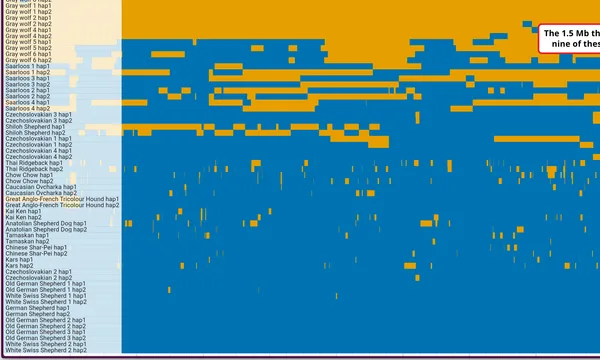
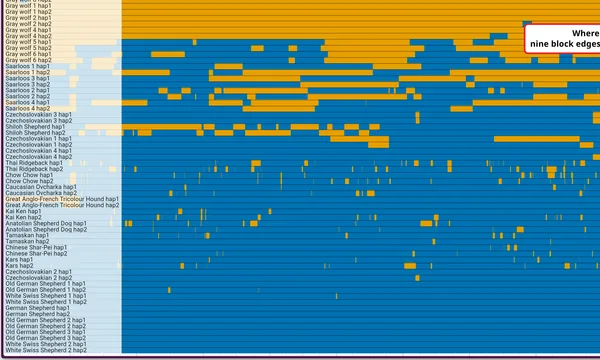
feat(multirow): let a track hide its row labels
The labels are an overlay on the plot rather than a gutter beside it, and each
one is as wide as its own text, so on a whole-chromosome view of a track with
long row names the left megabases of every row sit underneath them. A block that
starts at the beginning of the chromosome then reads as absent rather than as
covered, which is a figure stating the opposite of the data. Hit while painting
local ancestry across two hound breeds: two of the ten dogs carry their block
inside the covered span and the labelled view showed them clean.

Adds a `showRowLabels` config slot, its getter/action, and a "Show row labels"
checkbox beside the existing sidebar and separator toggles. The SVG export goes
through `SvgTreeSidebar`, which already took a `showLabels` prop, so that path
just passes the flag.

`RowLabelsOverlay` keeps rendering its `<svg>` when labels are off and drops
only the contents. That element is the doneness signal several displays gate
screenshot capture on -- it exists only once rows are derived from fetched data,
unlike canvasDrawn, which flips on an empty first paint -- so guarding the
element itself would have made hiding labels also disarm the gate and capture
blank figures.

Verified in a rebuilt jbrowse-web, not only in unit tests: the slot set from a
session spec hides the labels and reveals the chromosome start behind them.

Claude-Session: https://claude.ai/code/session_01NAiW6UoFGjYvDBYXHqRMYJ

diff --git a/website/src/lib/galleryLinks.generated.ts b/website/src/lib/galleryLinks.generated.ts
@@ -231,7 +231,7 @@ export const specSessionUrls: Record<string, string> = {
   "dog10k-fgf4-retrogene-synteny": "?config=test_data/dog10k/config.json&session=spec-%7B%22views%22%3A%5B%7B%22type%22%3A%22LinearSyntenyView%22%2C%22drawCurves%22%3Afalse%2C%22cigarMode%22%3A%22matches%22%2C%22alpha%22%3A0.45%2C%22tracks%22%3A%5B%5B%22dog10k_fgf4_retro_cfa18%22%5D%2C%5B%22dog10k_fgf4_retro_cfa12%22%5D%5D%2C%22views%22%3A%5B%7B%22assembly%22%3A%22FGF4retro-CFA18%22%2C%22loc%22%3A%22FGF4retro-CFA18%3A1-2625%22%2C%22tracks%22%3A%5B%7B%22trackId%22%3A%22dog10k_fgf4_retro_cfa18_genes%22%2C%22type%22%3A%22LinearBasicDisplay%22%2C%22height%22%3A55%7D%5D%7D%2C%7B%22assembly%22%3A%22UU_Cfam_GSD_1.0%22%2C%22loc%22%3A%22chr18%3A48%2C869%2C100-48%2C872%2C900%22%2C%22tracks%22%3A%5B%7B%22trackId%22%3A%22canFam4_ncbi_refseq%22%2C%22type%22%3A%22LinearBasicDisplay%22%2C%22height%22%3A60%7D%2C%7B%22trackId%22%3A%22dog10k_fgf4_svs%22%2C%22type%22%3A%22LinearMultiSampleVariantDisplay%22%2C%22height%22%3A690%2C%22colorBy%22%3A%22group%22%7D%5D%7D%2C%7B%22assembly%22%3A%22FGF4retro-CFA12%22%2C%22loc%22%3A%22FGF4retro-CFA12%3A2-2639%22%2C%22tracks%22%3A%5B%7B%22trackId%22%3A%22dog10k_fgf4_retro_cfa12_genes%22%2C%22type%22%3A%22LinearBasicDisplay%22%2C%22height%22%3A55%7D%5D%7D%5D%7D%5D%7D&sessionName=Screenshot",
   "dog10k-cyp1a2-nonsense": "?config=test_data/dog10k/config.json&session=spec-%7B%22views%22%3A%5B%7B%22type%22%3A%22LinearGenomeView%22%2C%22assembly%22%3A%22UU_Cfam_GSD_1.0%22%2C%22loc%22%3A%22chr30%3A38%2C261%2C590-38%2C261%2C690%22%2C%22tracks%22%3A%5B%7B%22trackId%22%3A%22UU_Cfam_GSD_1.0-ReferenceSequenceTrack%22%2C%22type%22%3A%22LinearReferenceSequenceDisplay%22%2C%22showForward%22%3Atrue%2C%22showReverse%22%3Afalse%2C%22showTranslation%22%3Atrue%2C%22height%22%3A80%7D%2C%7B%22trackId%22%3A%22canFam4_ncbi_refseq%22%2C%22type%22%3A%22LinearBasicDisplay%22%2C%22height%22%3A60%7D%2C%7B%22trackId%22%3A%22dog10k_cyp1a2_snvs_positional%22%2C%22type%22%3A%22LinearVariantDisplay%22%2C%22height%22%3A60%2C%22jexlFilters%22%3A%5B%22get(feature%2C'start')%20%3D%3D%2038261634%22%5D%7D%2C%7B%22trackId%22%3A%22dog10k_cyp1a2_snvs%22%2C%22type%22%3A%22LinearMultiSampleVariantDisplay%22%2C%22height%22%3A500%2C%22layout%22%3A%5B%7B%22name%22%3A%22GHND000001%22%2C%22label%22%3A%22German%20Hound%201%22%2C%22color%22%3A%22%230072B2%22%7D%2C%7B%22name%22%3A%22GHND000002%22%2C%22label%22%3A%22German%20Hound%202%22%2C%22color%22%3A%22%230072B2%22%7D%2C%7B%22name%22%3A%22GHND000003%22%2C%22label%22%3A%22German%20Hound%203%22%2C%22color%22%3A%22%230072B2%22%7D%2C%7B%22name%22%3A%22GHND000004%22%2C%22label%22%3A%22German%20Hound%204%22%2C%22color%22%3A%22%230072B2%22%7D%2C%7B%22name%22%3A%22GHND000005%22%2C%22label%22%3A%22German%20Hound%205%22%2C%22color%22%3A%22%230072B2%22%7D%2C%7B%22name%22%3A%22GHND000006%22%2C%22label%22%3A%22German%20Hound%206%22%2C%22color%22%3A%22%230072B2%22%7D%2C%7B%22name%22%3A%22BHSP000001%22%2C%22label%22%3A%22Bohemian%20Shepherd%201%22%2C%22color%22%3A%22%230072B2%22%7D%2C%7B%22name%22%3A%22BHSP000002%22%2C%22label%22%3A%22Bohemian%20Shepherd%202%22%2C%22color%22%3A%22%230072B2%22%7D%2C%7B%22name%22%3A%22BHSP000003%22%2C%22label%22%3A%22Bohemian%20Shepherd%203%22%2C%22color%22%3A%22%230072B2%22%7D%2C%7B%22name%22%3A%22BHSP000004%22%2C%22label%22%3A%22Bohemian%20Shepherd%204%22%2C%22color%22%3A%22%230072B2%22%7D%2C%7B%22name%22%3A%22BHSP000005%22%2C%22label%22%3A%22Bohemian%20Shepherd%205%22%2C%22color%22%3A%22%230072B2%22%7D%2C%7B%22name%22%3A%22BHSP000006%22%2C%22label%22%3A%22Bohemian%20Shepherd%206%22%2C%22color%22%3A%22%230072B2%22%7D%2C%7B%22name%22%3A%22SSHP000001%22%2C%22label%22%3A%22Shetland%20Sheepdog%201%22%2C%22color%22%3A%22%230072B2%22%7D%2C%7B%22name%22%3A%22SSHP000002%22%2C%22label%22%3A%22Shetland%20Sheepdog%202%22%2C%22color%22%3A%22%230072B2%22%7D%2C%7B%22name%22%3A%22SSHP000003%22%2C%22label%22%3A%22Shetland%20Sheepdog%203%22%2C%22color%22%3A%22%230072B2%22%7D%2C%7B%22name%22%3A%22SSHP000004%22%2C%22label%22%3A%22Shetland%20Sheepdog%204%22%2C%22color%22%3A%22%230072B2%22%7D%2C%7B%22name%22%3A%22BRTR000001%22%2C%22label%22%3A%22Black%20Russian%20Terrier%201%22%2C%22color%22%3A%22%230072B2%22%7D%2C%7B%22name%22%3A%22BRTR000002%22%2C%22label%22%3A%22Black%20Russian%20Terrier%202%22%2C%22color%22%3A%22%230072B2%22%7D%2C%7B%22name%22%3A%22BRTR000003%22%2C%22label%22%3A%22Black%20Russian%20Terrier%203%22%2C%22color%22%3A%22%230072B2%22%7D%2C%7B%22name%22%3A%22BRTR000004%22%2C%22label%22%3A%22Black%20Russian%20Terrier%204%22%2C%22color%22%3A%22%230072B2%22%7D%2C%7B%22name%22%3A%22BRTR000005%22%2C%22label%22%3A%22Black%20Russian%20Terrier%205%22%2C%22color%22%3A%22%230072B2%22%7D%2C%7B%22name%22%3A%22KEES000002%22%2C%22label%22%3A%22Keeshond%201%22%2C%22color%22%3A%22%230072B2%22%7D%2C%7B%22name%22%3A%22KEES000003%22%2C%22label%22%3A%22Keeshond%202%22%2C%22color%22%3A%22%230072B2%22%7D%2C%7B%22name%22%3A%22KEES000004%22%2C%22label%22%3A%22Keeshond%203%22%2C%22color%22%3A%22%230072B2%22%7D%2C%7B%22name%22%3A%22KEES000005%22%2C%22label%22%3A%22Keeshond%204%22%2C%22color%22%3A%22%230072B2%22%7D%2C%7B%22name%22%3A%22KEES000006%22%2C%22label%22%3A%22Keeshond%205%22%2C%22color%22%3A%22%230072B2%22%7D%2C%7B%22name%22%3A%22LABR000001%22%2C%22label%22%3A%22Labrador%20Retriever%201%22%2C%22color%22%3A%22%23999999%22%7D%2C%7B%22name%22%3A%22LABR000002%22%2C%22label%22%3A%22Labrador%20Retriever%202%22%2C%22color%22%3A%22%23999999%22%7D%2C%7B%22name%22%3A%22LABR000003%22%2C%22label%22%3A%22Labrador%20Retriever%203%22%2C%22color%22%3A%22%23999999%22%7D%2C%7B%22name%22%3A%22LABR000004%22%2C%22label%22%3A%22Labrador%20Retriever%204%22%2C%22color%22%3A%22%23999999%22%7D%2C%7B%22name%22%3A%22LABR000005%22%2C%22label%22%3A%22Labrador%20Retriever%205%22%2C%22color%22%3A%22%23999999%22%7D%2C%7B%22name%22%3A%22BOXR000001%22%2C%22label%22%3A%22Boxer%201%22%2C%22color%22%3A%22%23999999%22%7D%2C%7B%22name%22%3A%22BOXR000002%22%2C%22label%22%3A%22Boxer%202%22%2C%22color%22%3A%22%23999999%22%7D%2C%7B%22name%22%3A%22BOXR000003%22%2C%22label%22%3A%22Boxer%203%22%2C%22color%22%3A%22%23999999%22%7D%2C%7B%22name%22%3A%22BOXR000004%22%2C%22label%22%3A%22Boxer%204%22%2C%22color%22%3A%22%23999999%22%7D%2C%7B%22name%22%3A%22CLUPGR000001%22%2C%22label%22%3A%22Wolf%201%22%2C%22color%22%3A%22%23E69F00%22%7D%2C%7B%22name%22%3A%22CLUPGR000002%22%2C%22label%22%3A%22Wolf%202%22%2C%22color%22%3A%22%23E69F00%22%7D%2C%7B%22name%22%3A%22CLUPGR000003%22%2C%22label%22%3A%22Wolf%203%22%2C%22color%22%3A%22%23E69F00%22%7D%2C%7B%22name%22%3A%22CLUPGR000004%22%2C%22label%22%3A%22Wolf%204%22%2C%22color%22%3A%22%23E69F00%22%7D%5D%2C%22jexlFilters%22%3A%5B%22jexl%3Aget(feature%2C'start')%20%3D%3D%2038261634%22%5D%7D%5D%7D%5D%7D&sessionName=Screenshot",
   "dog10k-cyp1a2-cohort-copy-number": "?config=test_data/dog10k/config.json&session=spec-%7B%22views%22%3A%5B%7B%22type%22%3A%22LinearGenomeView%22%2C%22assembly%22%3A%22UU_Cfam_GSD_1.0%22%2C%22loc%22%3A%22chr30%3A38%2C210%2C000-38%2C395%2C000%22%2C%22tracks%22%3A%5B%7B%22trackId%22%3A%22canFam4_ncbi_refseq%22%2C%22type%22%3A%22LinearBasicDisplay%22%2C%22height%22%3A90%7D%2C%7B%22trackId%22%3A%22dog10k_cyp1a2_cpg%22%2C%22type%22%3A%22LinearBasicDisplay%22%2C%22height%22%3A62%7D%2C%7B%22trackId%22%3A%22dog10k_cyp1a2_breed_cn%22%2C%22type%22%3A%22LinearMultiRowFeatureDisplay%22%2C%22height%22%3A380%7D%2C%7B%22trackId%22%3A%22dog10k_cyp1a2_cohort_cn%22%2C%22type%22%3A%22LinearMultiRowFeatureDisplay%22%2C%22height%22%3A300%2C%22runClustering%22%3Atrue%7D%5D%7D%5D%7D&sessionName=Screenshot",
-  "dog10k-igf1-haplotype": "?config=test_data/dog10k/config.json&session=spec-%7B%22views%22%3A%5B%7B%22type%22%3A%22LinearGenomeView%22%2C%22assembly%22%3A%22UU_Cfam_GSD_1.0%22%2C%22loc%22%3A%22chr15%3A41%2C400%2C000-41%2C620%2C000%22%2C%22tracks%22%3A%5B%7B%22trackId%22%3A%22canFam4_ncbi_refseq%22%2C%22type%22%3A%22LinearBasicDisplay%22%2C%22height%22%3A80%7D%2C%7B%22trackId%22%3A%22dog10k_igf1_haplotype%22%2C%22type%22%3A%22LinearMultiSampleVariantMatrixDisplay%22%2C%22height%22%3A760%2C%22lineZoneHeight%22%3A34%2C%22runClustering%22%3Atrue%2C%22colorBy%22%3A%22size%22%7D%5D%7D%5D%7D&sessionName=Screenshot",
+  "dog10k-igf1-haplotype": "?config=test_data/dog10k/config.json&session=spec-%7B%22views%22%3A%5B%7B%22type%22%3A%22LinearGenomeView%22%2C%22assembly%22%3A%22UU_Cfam_GSD_1.0%22%2C%22loc%22%3A%22chr15%3A41%2C400%2C000-41%2C620%2C000%22%2C%22tracks%22%3A%5B%7B%22trackId%22%3A%22canFam4_ncbi_refseq%22%2C%22type%22%3A%22LinearBasicDisplay%22%2C%22geneGlyphMode%22%3A%22longestCoding%22%2C%22height%22%3A80%7D%2C%7B%22trackId%22%3A%22dog10k_igf1_haplotype%22%2C%22type%22%3A%22LinearMultiSampleVariantMatrixDisplay%22%2C%22height%22%3A760%2C%22lineZoneHeight%22%3A34%2C%22runClustering%22%3Atrue%2C%22colorBy%22%3A%22size%22%7D%5D%7D%5D%7D&sessionName=Screenshot",
   "gallery/copynumber_clustered": "?config=test_data/config_demo.json&session=spec-%7B%22views%22%3A%5B%7B%22type%22%3A%22LinearGenomeView%22%2C%22assembly%22%3A%22hg38%22%2C%22loc%22%3A%22chr3%3A162%2C275%2C163-163%2C360%2C944%22%2C%22tracks%22%3A%5B%7B%22trackId%22%3A%22pur_copynumber_1000g%22%2C%22type%22%3A%22MultiLinearWiggleDisplay%22%2C%22height%22%3A420%2C%22defaultRendering%22%3A%22multirowdensity%22%2C%22autoscale%22%3A%22local%22%2C%22showTree%22%3Afalse%7D%5D%7D%5D%7D&sessionName=Screenshot",
   "gallery/sarscov2_polyprotein": "?config=test_data%2Fsars-cov2%2Fconfig.json&session=spec-{\"views\":[{\"assembly\":\"Wuhan-Hu-1\",\"loc\":\"NC_045512.2:266-21555\",\"type\":\"LinearGenomeView\",\"colorByCDS\":true,\"tracks\":[{\"trackId\":\"ncbi_genes_with_mature_peptides\",\"displaySnapshot\":{\"type\":\"LinearBasicDisplay\",\"subfeatureLabels\":\"below\"}}]}]}",
   "gallery/fiberseq_gapdh": "?config=test_data/config_demo.json&session=spec-%7B%22sessionTracks%22%3A%5B%7B%22type%22%3A%22FeatureTrack%22%2C%22trackId%22%3A%22gencode_promoter_hg38_ucsc%22%2C%22name%22%3A%22GENCODE%20v48%20promoter%20windows%20(UCSC)%22%2C%22assemblyNames%22%3A%5B%22hg38%22%5D%2C%22adapter%22%3A%7B%22type%22%3A%22Gff3TabixAdapter%22%2C%22gffGzLocation%22%3A%7B%22uri%22%3A%22https%3A%2F%2Fjbrowse.org%2Fucsc%2Fhg38%2Fgencode.v48.promoter_windows.sorted.gff3.gz%22%2C%22locationType%22%3A%22UriLocation%22%7D%2C%22index%22%3A%7B%22location%22%3A%7B%22uri%22%3A%22https%3A%2F%2Fjbrowse.org%2Fucsc%2Fhg38%2Fgencode.v48.promoter_windows.sorted.gff3.gz.csi%22%2C%22locationType%22%3A%22UriLocation%22%7D%2C%22indexType%22%3A%22CSI%22%7D%7D%7D%5D%2C%22views%22%3A%5B%7B%22assembly%22%3A%22hg38%22%2C%22loc%22%3A%2212%3A6530000-6539000%22%2C%22type%22%3A%22LinearGenomeView%22%2C%22tracks%22%3A%5B%7B%22trackId%22%3A%22ncbi_refseq_109_hg38_latest%22%2C%22type%22%3A%22LinearBasicDisplay%22%2C%22geneGlyphMode%22%3A%22longestCoding%22%7D%2C%7B%22trackId%22%3A%22gencode_promoter_hg38_ucsc%22%2C%22type%22%3A%22LinearBasicDisplay%22%2C%22height%22%3A50%7D%2C%7B%22trackId%22%3A%22catlas_scatac_celltypes_hg38%22%2C%22type%22%3A%22MultiLinearWiggleDisplay%22%2C%22height%22%3A150%7D%2C%7B%22trackId%22%3A%22PAY22766-nanopore%22%2C%22type%22%3A%22LinearAlignmentsDisplay%22%2C%22height%22%3A450%2C%22colorBy%22%3A%7B%22type%22%3A%22modifications%22%2C%22modifications%22%3A%7B%22shownModifications%22%3A%5B%22a%22%5D%7D%7D%2C%22displayMode%22%3A%22compact%22%2C%22showLegend%22%3Atrue%7D%5D%7D%5D%7D&sessionName=Screenshot",

diff --git a/packages/tree-sidebar/src/RowLabelsOverlay.tsx b/packages/tree-sidebar/src/RowLabelsOverlay.tsx
@@ -21,6 +21,13 @@ import type { RowLabelSource } from './types.ts'
  * Renders nothing when there are no rows, so callers don't have to guard: a
  * label overlay with nothing in it is a `<svg>` swallowing nothing, but it is
  * also a DOM node that test selectors and screenshot doneness gates can see.
+ *
+ * `showLabels: false` keeps that `<svg>` and drops only the labels inside it,
+ * for the same reason: this element is the doneness signal several displays gate
+ * their capture on (it exists only once rows are derived from fetched data,
+ * unlike `canvasDrawn`, which flips on an empty first paint). Guarding the
+ * element itself instead would make turning labels off also turn off the gate,
+ * and the figure would capture blank.
  */
 export function RowLabelsOverlay({
   sources,
@@ -30,6 +37,7 @@ export function RowLabelsOverlay({
   height,
   scrollTop,
   testId,
+  showLabels = true,
 }: {
   sources: RowLabelSource[] | undefined
   // Resolved px row height, never a fit-to-height sentinel — same contract as
@@ -42,6 +50,8 @@ export function RowLabelsOverlay({
   height: number
   scrollTop?: number
   testId?: string
+  // Draw the names. False still renders the overlay element, see above.
+  showLabels?: boolean
 }) {
   return sources?.length ? (
     <svg
@@ -56,13 +66,15 @@ export function RowLabelsOverlay({
         zIndex: 2,
       }}
     >
-      <SvgRowLabels
-        sources={sources}
-        rowHeight={rowHeight}
-        labelOffset={labelOffset}
-        scrollTop={scrollTop}
-        availableHeight={height}
-      />
+      {showLabels ? (
+        <SvgRowLabels
+          sources={sources}
+          rowHeight={rowHeight}
+          labelOffset={labelOffset}
+          scrollTop={scrollTop}
+          availableHeight={height}
+        />
+      ) : null}
     </svg>
   ) : null
 }

diff --git a/packages/tree-sidebar/src/RowLabelsOverlay.test.tsx b/packages/tree-sidebar/src/RowLabelsOverlay.test.tsx
@@ -1,0 +1,48 @@
+import { render } from '@testing-library/react'
+
+import { RowLabelsOverlay } from './RowLabelsOverlay.tsx'
+
+const sources = [{ name: 'a' }, { name: 'b' }]
+
+const props = {
+  sources,
+  rowHeight: 20,
+  labelOffset: 0,
+  width: 400,
+  height: 40,
+  testId: 'labels',
+}
+
+describe('RowLabelsOverlay', () => {
+  it('draws the row names by default', () => {
+    const { getByTestId } = render(<RowLabelsOverlay {...props} />)
+    expect(getByTestId('labels').textContent).toBe('ab')
+  })
+
+  // The point of the flag: the labels are an overlay ON the plot, so on a wide
+  // view they cover the left of the rows they name.
+  it('drops the names when showLabels is false', () => {
+    const { getByTestId } = render(
+      <RowLabelsOverlay {...props} showLabels={false} />,
+    )
+    expect(getByTestId('labels').textContent).toBe('')
+  })
+
+  // Displays gate screenshot capture and tests on this element existing, since
+  // it only appears once rows are derived from fetched data. Guarding the
+  // element on showLabels rather than its contents would make hiding the labels
+  // also disarm that gate, and figures would capture blank.
+  it('keeps the overlay element itself when showLabels is false', () => {
+    const { queryByTestId } = render(
+      <RowLabelsOverlay {...props} showLabels={false} />,
+    )
+    expect(queryByTestId('labels')).not.toBeNull()
+  })
+
+  it('renders nothing at all when there are no rows', () => {
+    const { queryByTestId } = render(
+      <RowLabelsOverlay {...props} sources={[]} />,
+    )
+    expect(queryByTestId('labels')).toBeNull()
+  })
+})

diff --git a/plugins/canvas/src/LinearMultiRowFeatureDisplay/configSchema.ts b/plugins/canvas/src/LinearMultiRowFeatureDisplay/configSchema.ts
@@ -189,6 +189,24 @@ export default function configSchemaF(pluginManager: PluginManager) {
       },
       /**
        * #slot
+       * Draw each row's name over the left of the plot. On by default, because a
+       * row nobody can name is a stripe.
+       *
+       * Turn it off when the labels would cover the data they name. They are an
+       * overlay on the plot rather than a gutter beside it, and each one is as
+       * wide as its own text, so on a whole-chromosome view of a track with long
+       * row names the left megabases of every row sit under them — and a block
+       * that starts at the chromosome's beginning reads as absent rather than as
+       * covered. Pairing a labelled view with an unlabelled one of the same rows
+       * is the other way out, and is what a compose figure does.
+       */
+      showRowLabels: {
+        type: 'boolean',
+        defaultValue: true,
+        description: 'draw the row name over the left of each row',
+      },
+      /**
+       * #slot
        * Show the categorical color key (swatch + label per distinct per-feature
        * color). Only appears in per-feature color mode; in per-row palette /
        * sampleColorMap mode the sidebar labels are already the key, so nothing

diff --git a/plugins/canvas/src/LinearMultiRowFeatureDisplay/trackMenuItems.test.ts b/plugins/canvas/src/LinearMultiRowFeatureDisplay/trackMenuItems.test.ts
@@ -16,6 +16,8 @@ function makeSelf(
     showTree: true,
     showLegend: true,
     showRowSeparators: false,
+    showRowLabels: true,
+    setShowRowLabels: () => {},
     effectiveRowHeight: 14,
     colorLegend: [],
     hiddenCategories: [],
@@ -83,6 +85,7 @@ describe('multi-row track menu', () => {
     expect(items.every(i => 'icon' in i && i.icon)).toBe(true)
     expect(labels(subMenuOf(items, 'Show...'))).toEqual([
       'Show sidebar with tree and labels',
+      'Show row labels',
       'Show row separators',
       'Tree branch lengths',
     ])
@@ -94,7 +97,9 @@ describe('multi-row track menu', () => {
   it('explains the row separator toggle when rows are below the draw threshold', () => {
     const sub = (rowHeight: number) =>
       subMenuOf(
-        buildMultiRowTrackMenuItems(makeSelf({ effectiveRowHeight: rowHeight })),
+        buildMultiRowTrackMenuItems(
+          makeSelf({ effectiveRowHeight: rowHeight }),
+        ),
         'Show...',
       ).find(i => 'label' in i && i.label === 'Show row separators')
 

diff --git a/plugins/canvas/src/LinearMultiRowFeatureDisplay/trackMenuItems.ts b/plugins/canvas/src/LinearMultiRowFeatureDisplay/trackMenuItems.ts
@@ -55,6 +55,8 @@ interface MultiRowMenuSelf extends IStateTreeNode {
   showTree: boolean
   showLegend: boolean
   showRowSeparators: boolean
+  showRowLabels: boolean
+  setShowRowLabels: (f: boolean) => void
   effectiveRowHeight: number
   colorLegend: LegendEntry[]
   hiddenCategories: readonly string[]
@@ -90,6 +92,13 @@ function showMenuItems(self: MultiRowMenuSelf): MenuItem[] {
   return [
     checkboxItem('Show sidebar with tree and labels', self.showTree, () => {
       self.setShowTree(!self.showTree)
+    }),
+    // Separate from the sidebar toggle above, which owns the tree gutter. The
+    // labels are an overlay ON the plot rather than a gutter beside it, so on a
+    // wide view they cover the left of the rows they name — which is the reason
+    // this is a toggle at all. See the config slot.
+    checkboxItem('Show row labels', self.showRowLabels, () => {
+      self.setShowRowLabels(!self.showRowLabels)
     }),
     ...(self.colorLegend.length
       ? [

diff --git a/plugins/canvas/src/LinearMultiRowFeatureDisplay/renderSvg.test.tsx b/plugins/canvas/src/LinearMultiRowFeatureDisplay/renderSvg.test.tsx
@@ -107,6 +107,7 @@ function makeModel(overrides: Partial<RenderSvgModel> = {}): RenderSvgModel {
     hierarchy: undefined,
     showLegend: false,
     showRowSeparators: false,
+    showRowLabels: true,
     colorLegend: [],
     hiddenCategorySet: new Set<string>(),
     ...overrides,
@@ -162,6 +163,16 @@ describe('LinearMultiRowFeatureDisplay renderSvg', () => {
     // so the 1px stroke lands on a device pixel
     expect(html).toContain('y1="50.5"')
     expect(html.match(/<line /g)?.length).toBe(1)
+  })
+
+  it('omits the row names when showRowLabels is off', async () => {
+    const on = renderResult(await renderSvg(makeModel(), {}))
+    expect(on).toContain('>a<')
+    const off = renderResult(
+      await renderSvg(makeModel({ showRowLabels: false }), {}),
+    )
+    expect(off).not.toContain('>a<')
+    expect(off).not.toContain('>b<')
   })
 
   it('omits separators when rows are below the drawable threshold', async () => {

diff --git a/plugins/canvas/src/LinearMultiRowFeatureDisplay/model.ts b/plugins/canvas/src/LinearMultiRowFeatureDisplay/model.ts
@@ -202,6 +202,12 @@ export default function stateModelFactory(
       /**
        * #getter
        */
+      get showRowLabels(): boolean {
+        return getConf(self, 'showRowLabels')
+      },
+      /**
+       * #getter
+       */
       get showTree(): boolean {
         return getConf(self, 'showTree')
       },
@@ -683,6 +689,12 @@ export default function stateModelFactory(
        */
       setShowRowSeparators(f: boolean) {
         setConf(self, 'showRowSeparators', f)
+      },
+      /**
+       * #action
+       */
+      setShowRowLabels(f: boolean) {
+        setConf(self, 'showRowLabels', f)
       },
       /**
        * #action

diff --git a/plugins/canvas/src/LinearMultiRowFeatureDisplay/components/LinearMultiRowFeatureDisplayComponent.tsx b/plugins/canvas/src/LinearMultiRowFeatureDisplay/components/LinearMultiRowFeatureDisplayComponent.tsx
@@ -41,6 +41,7 @@ const MultiRowCanvas = observer(function MultiRowCanvas({
     sidebarOffset,
     showLegend,
     showRowSeparators,
+    showRowLabels,
     colorLegend,
     hiddenCategorySet,
   } = model
@@ -97,6 +98,7 @@ const MultiRowCanvas = observer(function MultiRowCanvas({
         labelOffset={sidebarOffset}
         width={view.trackWidthPx}
         height={height}
+        showLabels={showRowLabels}
       />
       {/* portaled above the inter-region masks (see FloatingSvgOverlay) so the
           legend isn't buried at multi-region scale */}

diff --git a/plugins/canvas/src/LinearMultiRowFeatureDisplay/renderSvg.tsx b/plugins/canvas/src/LinearMultiRowFeatureDisplay/renderSvg.tsx
@@ -49,6 +49,7 @@ export interface RenderSvgModel extends SvgExportable {
   clusterProvenance?: ClusterProvenance
   showLegend: boolean
   showRowSeparators: boolean
+  showRowLabels: boolean
   colorLegend: LegendEntry[]
   hiddenCategorySet: ReadonlySet<string>
 }
@@ -113,6 +114,7 @@ function MultiRowSvgBody({
       ) : null}
       <SvgTreeSidebar
         showTree={self.showTree}
+        showLabels={self.showRowLabels}
         hierarchy={self.hierarchy}
         sources={self.sources}
         rowHeight={self.effectiveRowHeight}

diff --git a/products/jbrowse-cli/src/commands/validate/configManifest.generated.ts b/products/jbrowse-cli/src/commands/validate/configManifest.generated.ts
@@ -2880,6 +2880,10 @@ export const configManifest: ConfigManifest = {
           "type": "(JexlString | boolean)"
         },
         {
+          "name": "showRowLabels",
+          "type": "(JexlString | boolean)"
+        },
+        {
           "name": "showLegend",
           "type": "(JexlString | boolean)"
         },

diff --git a/website/docs/config/LinearMultiRowFeatureDisplay.md b/website/docs/config/LinearMultiRowFeatureDisplay.md
@@ -98,6 +98,7 @@ whole surface.
 | <span id="slot-rowheight">**rowHeight**</span><br>[`number`](/docs/config_guides/slot_types#number) = <code>0</code> | Fixed height in pixels of each row. `0` (the default) auto-fits: all rows stretch to fill the display height, so adding rows shrinks them instead of growing the track — a dense, fully-visible painting. |
 | <span id="slot-rowproportion">**rowProportion**</span><br>[`number`](/docs/config_guides/slot_types#number) = <code>1</code> | Fraction of the row height each block fills (1 = full, leaving no gap between rows).<br>_advanced_ |
 | <span id="slot-showrowseparators">**showRowSeparators**</span><br>[`boolean`](/docs/config_guides/slot_types#boolean) = <code>false</code> | Draw a hairline between adjacent rows. Off by default: a painting whose neighbouring rows differ in color already separates itself, and the line only earns its pixel where they don't — a run of same-colored rows (an ancestry painting where most animals are one color, a cohort sorted so like sits next to like) reads as one block without it, and the row count can't be recovered by eye.<br><br>Only drawn once rows are at least 4px tall. Below that the line is as thick as the row it borders, so a dense painting would be turned into a grid of hairlines with a little color between them. |
+| <span id="slot-showrowlabels">**showRowLabels**</span><br>[`boolean`](/docs/config_guides/slot_types#boolean) = <code>true</code> | Draw each row's name over the left of the plot. On by default, because a row nobody can name is a stripe.<br><br>Turn it off when the labels would cover the data they name. They are an overlay on the plot rather than a gutter beside it, and each one is as wide as its own text, so on a whole-chromosome view of a track with long row names the left megabases of every row sit under them — and a block that starts at the chromosome's beginning reads as absent rather than as covered. Pairing a labelled view with an unlabelled one of the same rows is the other way out, and is what a compose figure does. |
 | <span id="slot-showlegend">**showLegend**</span><br>[`boolean`](/docs/config_guides/slot_types#boolean) = <code>true</code> | Show the categorical color key (swatch + label per distinct per-feature color). Only appears in per-feature color mode; in per-row palette / sampleColorMap mode the sidebar labels are already the key, so nothing shows regardless. The entries come from `legend` when set, else are auto-derived from named, categorical features (e.g. chromHMM states). |
 | <span id="slot-legend">**legend**</span><br>[`frozen`](/docs/config_guides/slot_types#frozen) = <code>[]</code> | Explicit color key: an array of `{ label, color }`. Use this when the category is encoded only in the block color (e.g. an `itemRgb` ancestry painting) so there's no feature attribute to auto-derive a legend from — the mapping is a semantic the data doesn't carry, so the config declares it. `color` is any CSS color and should match what `color` paints. Overrides the auto-derived legend when non-empty.<br><span class="cell-more"><button type="button" class="cell-more-trigger">example</button><dialog class="cell-dialog"><form method="dialog"><button class="cell-dialog-close" aria-label="Close">✕</button></form><pre><code>legend: [&#10;&#160;&#160;{ label: 'Maternal', color: 'rgb(227,26,28)' },&#10;&#160;&#160;{ label: 'Paternal', color: 'rgb(31,120,180)' },&#10;&#160;&#160;{ label: 'Unknown', color: 'rgb(170,170,170)' },&#10;]</code></pre></dialog></span> |
 | <span id="slot-rowgroups">**rowGroups**</span><br>[`frozen`](/docs/config_guides/slot_types#frozen) = <code>[]</code> | Group and mark rows: an array of `{ match, group, color }` where `match` is a regex tested against the row name (the partition value). The first matching entry wins, its `color` becomes that row's sidebar swatch, and matched rows are pulled into contiguous blocks in the order the entries are declared, ahead of everything unmatched.<br><br>It groups as well as marks because marking alone does not survive a large cohort: rows spread through a couple of thousand sorted neighbours land as a few specks that read as noise, where the same rows in one block read as a group whose colors can be compared against the rest. Within a block the incoming order is kept, so a `sortRowsBy` still orders each block by the value it sorted on.<br><br>Use this when the row identity encodes a grouping the painting does not — cohort IDs whose prefix names a population, say — and the cohort is far too large to enumerate in `layout`. The color tints the swatch only, never the blocks, so it composes with an `itemRgb` painting instead of overwriting it.<br><br>**Mark the small group, not the big one.** Rows matching nothing get no swatch, and that is the point: below a pixel a row the swatch is floored to a pixel so it stays visible, which makes every mark taller than the row it points at. The stripe is then a marker, not a proportional encoding — 307 of 1,987 rows (15%) came out as 48% of the stripe's ink, which reads as a majority. Marking 63 wolves out of the same 1,987 costs 10% of the ink and reads correctly, as sparse ticks. Keep the matched groups to the ones a reader is hunting for.<br><span class="cell-more"><button type="button" class="cell-more-trigger">example</button><dialog class="cell-dialog"><form method="dialog"><button class="cell-dialog-close" aria-label="Close">✕</button></form><pre><code>rowGroups: [&#10;&#160;&#160;{ match: '^CLUP', group: 'Wolf', color: 'rgb(27,120,55)' },&#10;&#160;&#160;{ match: '^CLAT', group: 'Coyote', color: 'rgb(224,130,20)' },&#10;]</code></pre></dialog></span> |
